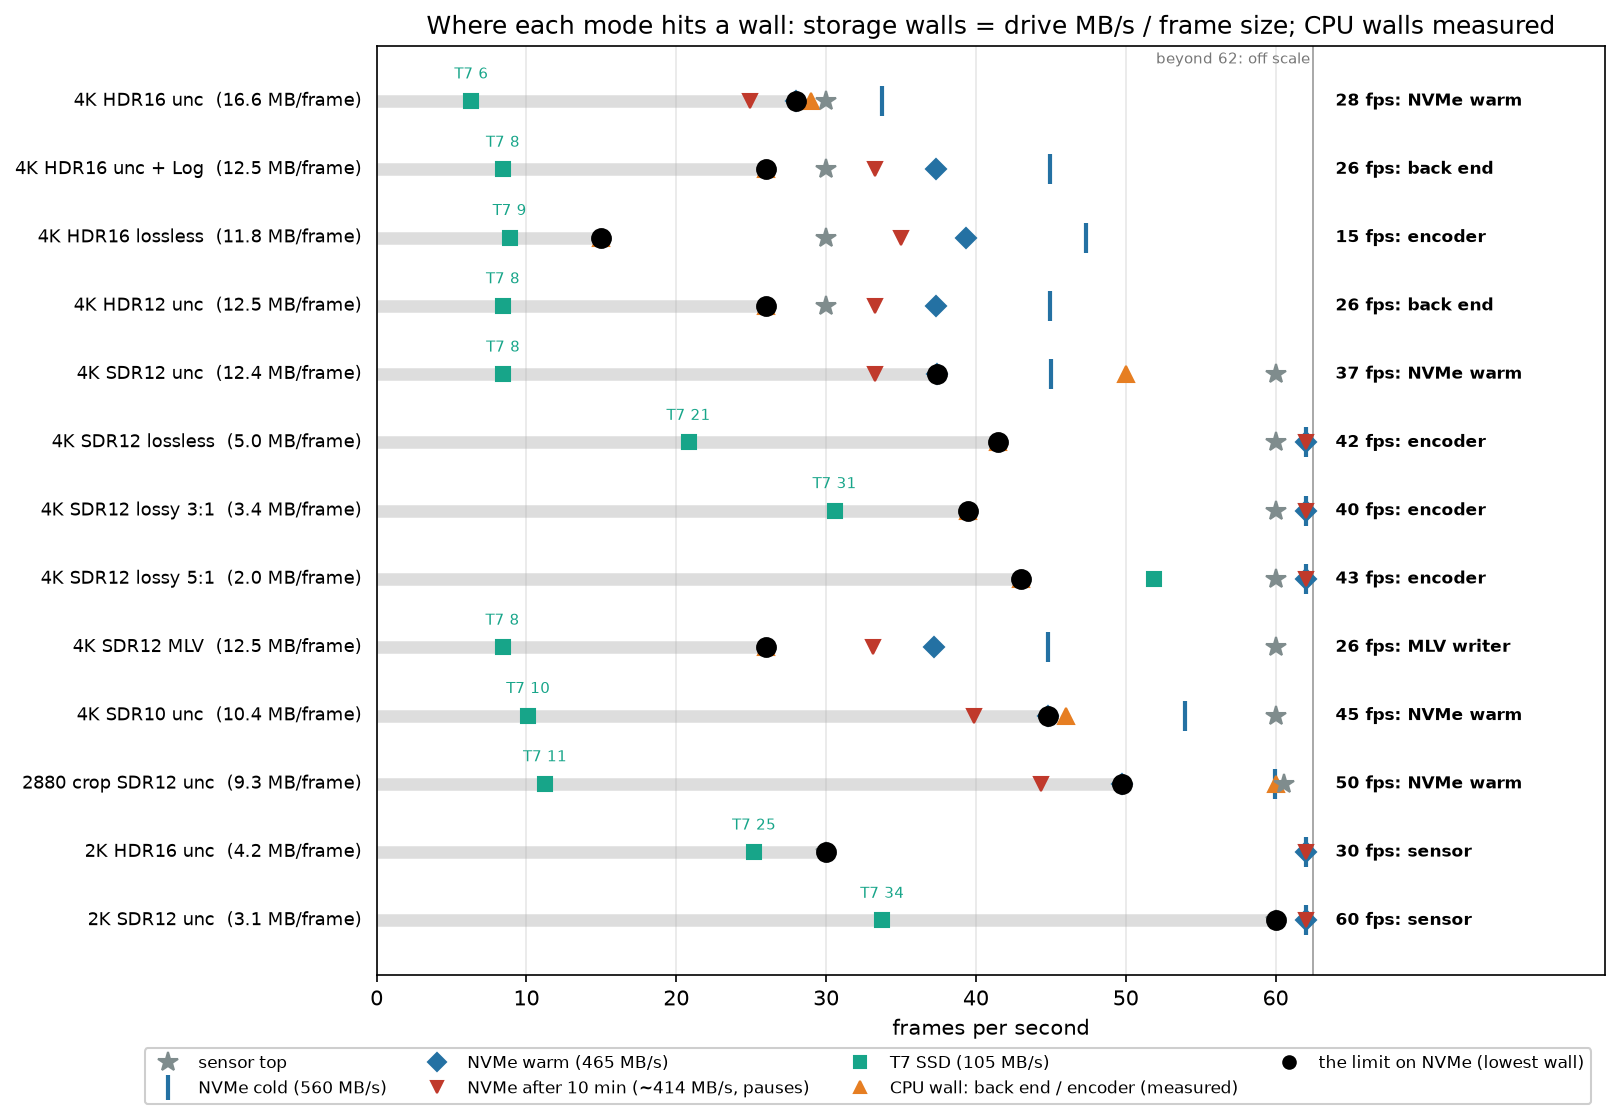
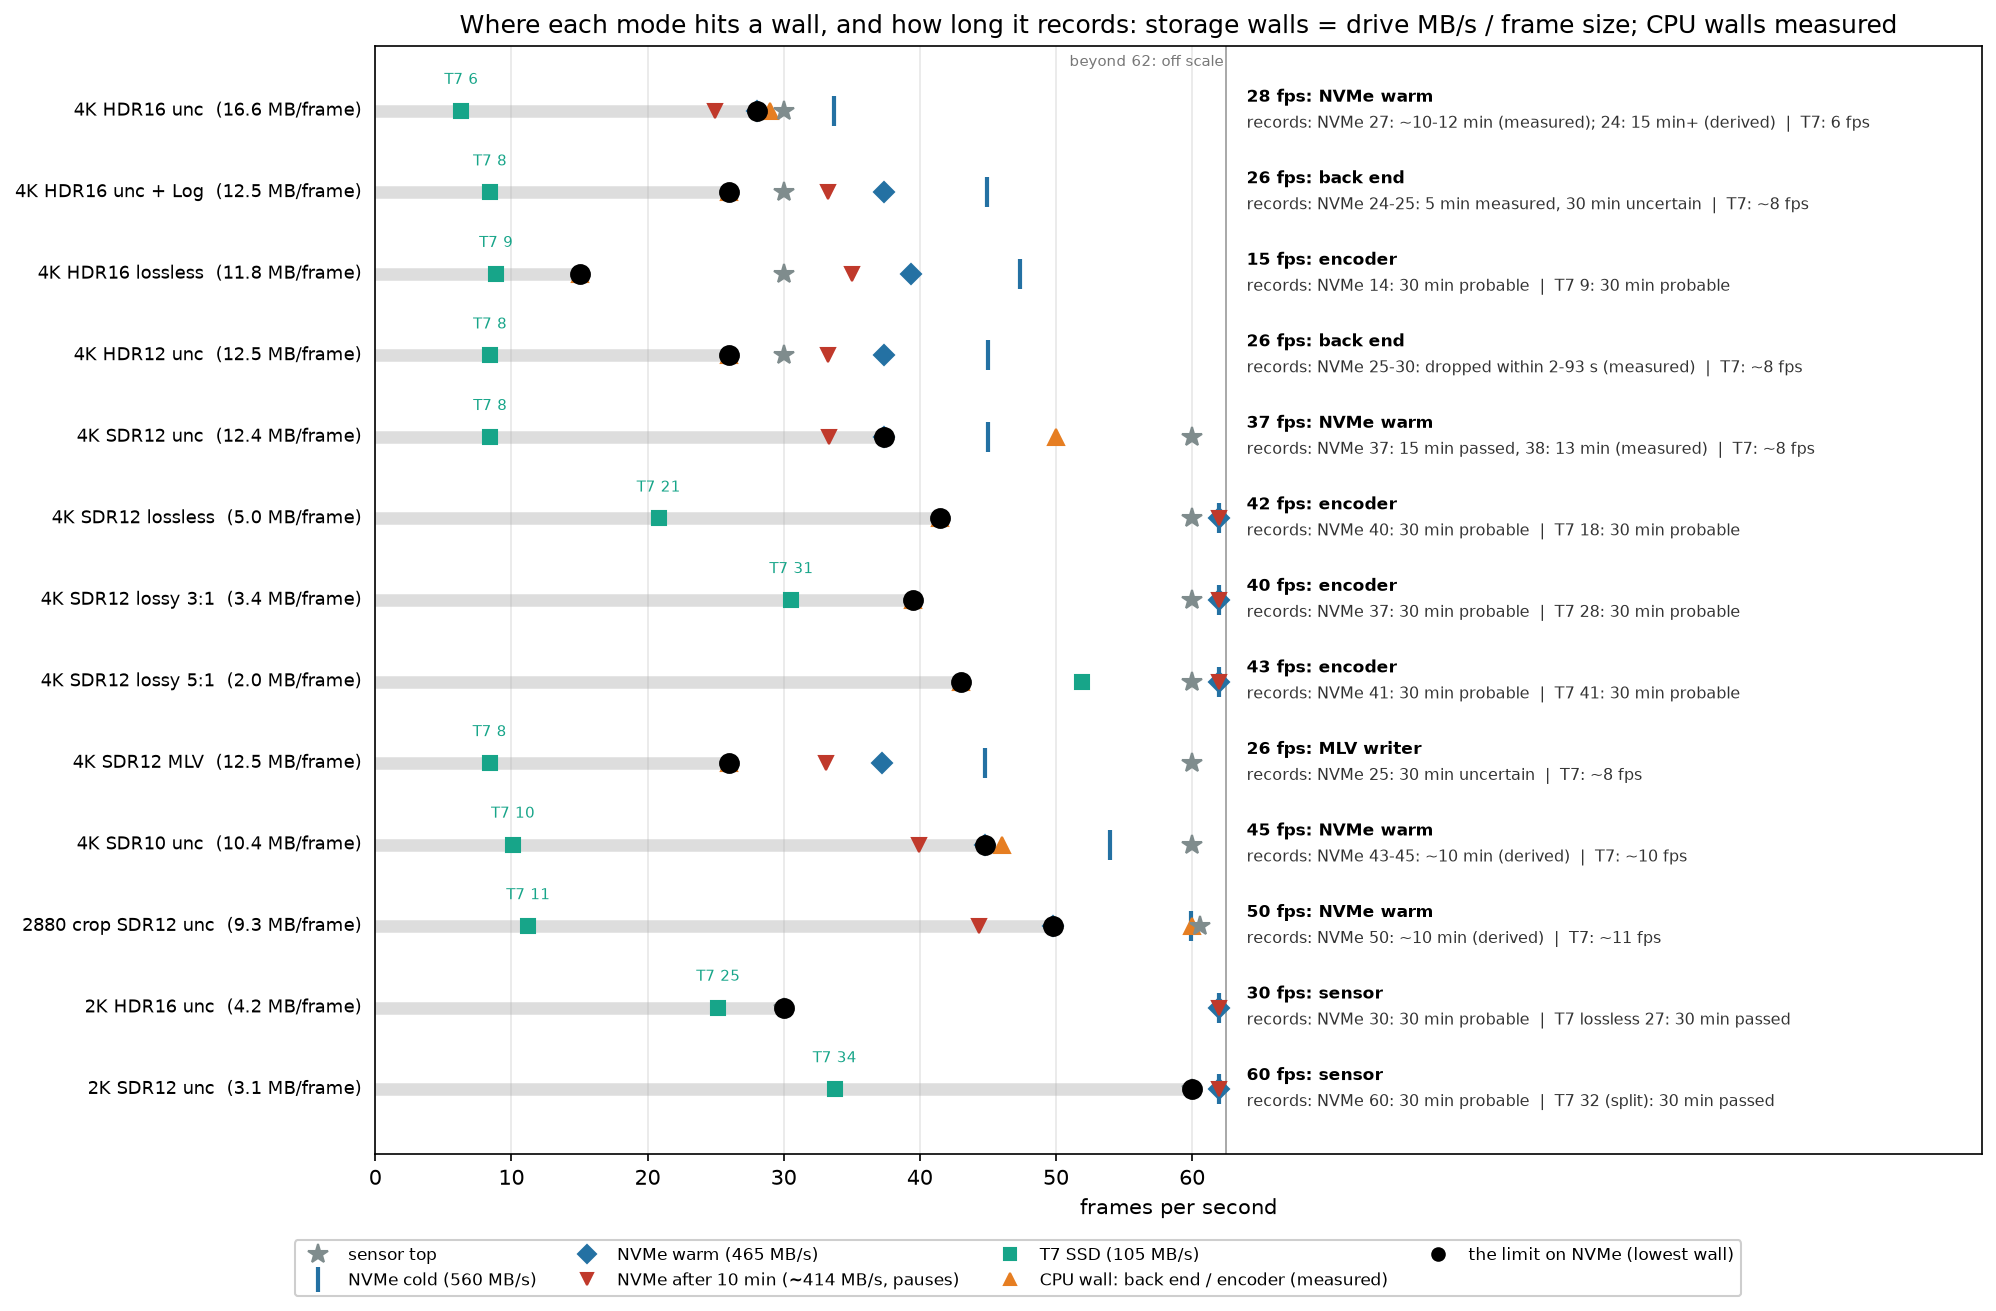
estimator campaign: walls figure shows how long each mode records, NVMe and T7

diff --git a/working/drop-frames/estimator-campaign/scripts/figures.py b/working/drop-frames/estimator-campaign/scripts/figures.py
@@ -209,6 +209,27 @@ WALLS = [('4K HDR16 unc', '4kHDR16:cdng:unc', 29, 'back end'),
          ('2K SDR12 unc', '2kSDR12:cdng:unc', 99, '')]
 
 
+# how long a take records clean (from the recipes, pre-analysis 5a): NVMe | T7
+REC_TIME = {
+    '4K HDR16 unc': 'NVMe 27: ~10-12 min (measured); 24: 15 min+ (derived)  |  T7: 6 fps',
+    '4K HDR16 unc + Log': 'NVMe 24-25: 5 min measured, 30 min uncertain  |  T7: ~8 fps',
+    '4K HDR16 lossless': 'NVMe 14: 30 min probable  |  T7 9: 30 min probable',
+    '4K HDR12 unc': 'NVMe 25-30: dropped within 2-93 s (measured)  |  T7: ~8 fps',
+    '4K SDR12 unc': 'NVMe 37: 15 min passed, 38: 13 min (measured)  |  T7: ~8 fps',
+    '4K SDR12 lossless': 'NVMe 40: 30 min probable  |  T7 18: 30 min probable',
+    '4K SDR12 lossy 3:1': 'NVMe 37: 30 min probable  |  T7 28: 30 min probable',
+    '4K SDR12 lossy 5:1': 'NVMe 41: 30 min probable  |  T7 41: 30 min probable',
+    '4K SDR12 MLV': 'NVMe 25: 30 min uncertain  |  T7: ~8 fps',
+    '4K SDR10 unc': 'NVMe 43-45: ~10 min (derived)  |  T7: ~10 fps',
+    '2880 crop SDR12 unc': 'NVMe 50: ~10 min (derived)  |  T7: ~11 fps',
+    '4K ProRes HQ': 'NVMe and T7 25: 30 min probable',
+    '4K ProRes 422': 'NVMe and T7 40: 30 min probable',
+    'H.264 2560x1440': 'NVMe and T7 45: 30 min probable',
+    '2K HDR16 unc': 'NVMe 30: 30 min probable  |  T7 lossless 27: 30 min passed',
+    '2K SDR12 unc': 'NVMe 60: 30 min probable  |  T7 32 (split): 30 min passed',
+}
+
+
 def fig_walls(probes, out):
     by = {}
     for p in probes:
@@ -221,7 +242,7 @@ def fig_walls(probes, out):
         bpf = st.median(b for b, _ in by[spec]) / 1e6
         top = st.median(t for _, t in by[spec])
         rows.append((lab, bpf, top, wall, what))
-    fig, ax = plt.subplots(figsize=(13, 0.48 * len(rows) + 1.8))
+    fig, ax = plt.subplots(figsize=(17, 0.6 * len(rows) + 1.8))
     for i, (lab, bpf, top, wall, what) in enumerate(reversed(rows)):
         cands = {'sensor': top, 'NVMe warm': NVME_WARM / bpf, 'CPU: ' + (what or 'n/a'): wall}
         lim_n = min(cands, key=cands.get)
@@ -229,7 +250,8 @@ def fig_walls(probes, out):
         lo = min(T7 / bpf, lim)
         ax.plot([0, min(lim, 62)], [i, i], color='#ddd', lw=6, solid_capstyle='butt', zorder=1)
         ax.plot([lim], [i], 'o', color='black', ms=9, zorder=5)
-        ax.text(64, i, '%.0f fps: %s' % (lim, lim_n.replace('CPU: ', '')), va='center', fontsize=8.4, weight='bold')
+        ax.text(64, i + 0.06, '%.0f fps: %s' % (lim, lim_n.replace('CPU: ', '')), va='bottom', fontsize=8.4, weight='bold')
+        ax.text(64, i - 0.06, 'records: ' + REC_TIME.get(lab, '-'), va='top', fontsize=7.6, color='#333')
         ax.plot([min(T7 / bpf, 62)], [i], 's', color='#17a589', ms=7, zorder=4)
         ax.plot([min(NVME_COLD / bpf, 62)], [i], '|', color='#2471a3', ms=14, mew=2, zorder=3)
         ax.plot([min(NVME_WARM / bpf, 62)], [i], 'D', color='#2471a3', ms=7, zorder=4)
@@ -242,12 +264,12 @@ def fig_walls(probes, out):
             ax.text(min(T7 / bpf, 62), i + 0.33, 'T7 %.0f' % (T7 / bpf), ha='center', fontsize=7, color='#17a589')
     ax.axvline(62.5, color='#999', lw=0.8)
     ax.text(62.3, len(rows) - 0.45, 'beyond 62: off scale', fontsize=7, color='#777', ha='right')
-    ax.set_xlim(0, 82)
+    ax.set_xlim(0, 118)
     ax.set_xticks(range(0, 61, 10))
     ax.set_ylim(-0.8, len(rows) - 0.2)
     ax.set_yticks([])
     ax.set_xlabel('frames per second')
-    ax.set_title('Where each mode hits a wall: storage walls = drive MB/s / frame size; CPU walls measured', fontsize=12)
+    ax.set_title('Where each mode hits a wall, and how long it records: storage walls = drive MB/s / frame size; CPU walls measured', fontsize=12)
     from matplotlib.lines import Line2D
     h = [Line2D([], [], marker='*', color='#7f8c8d', ls='', ms=10, label='sensor top'),
          Line2D([], [], marker='|', color='#2471a3', ls='', ms=12, mew=2, label='NVMe cold (%d MB/s)' % NVME_COLD),

diff --git a/working/drop-frames/estimator-campaign/pre-analysis.md b/working/drop-frames/estimator-campaign/pre-analysis.md
@@ -188,7 +188,8 @@ the **encoder** (lossless, lossy, ProRes and H.264 move the load from the drive 
 
 **Which wall a mode reaches first.** The storage walls are drive MB/s / frame size. The CPU walls are measured. The
 lowest one is the mode's limit. It moves: the drive's wall drops as it warms and fills (blue -> red), the CPU walls
-move with the levers, and the T7's wall (green) sits low for every 4K mode except lossy 5:1.
+move with the levers, and the T7's wall (green) sits low for every 4K mode except lossy 5:1. On the right, per mode: the limit, and how long a take records
+clean at the recipe's fps on each storage (from 2c-0, 2c and 5a; measured where it says so).
 
 ![Where each mode hits a wall](figures/fig4-walls.png)
 
